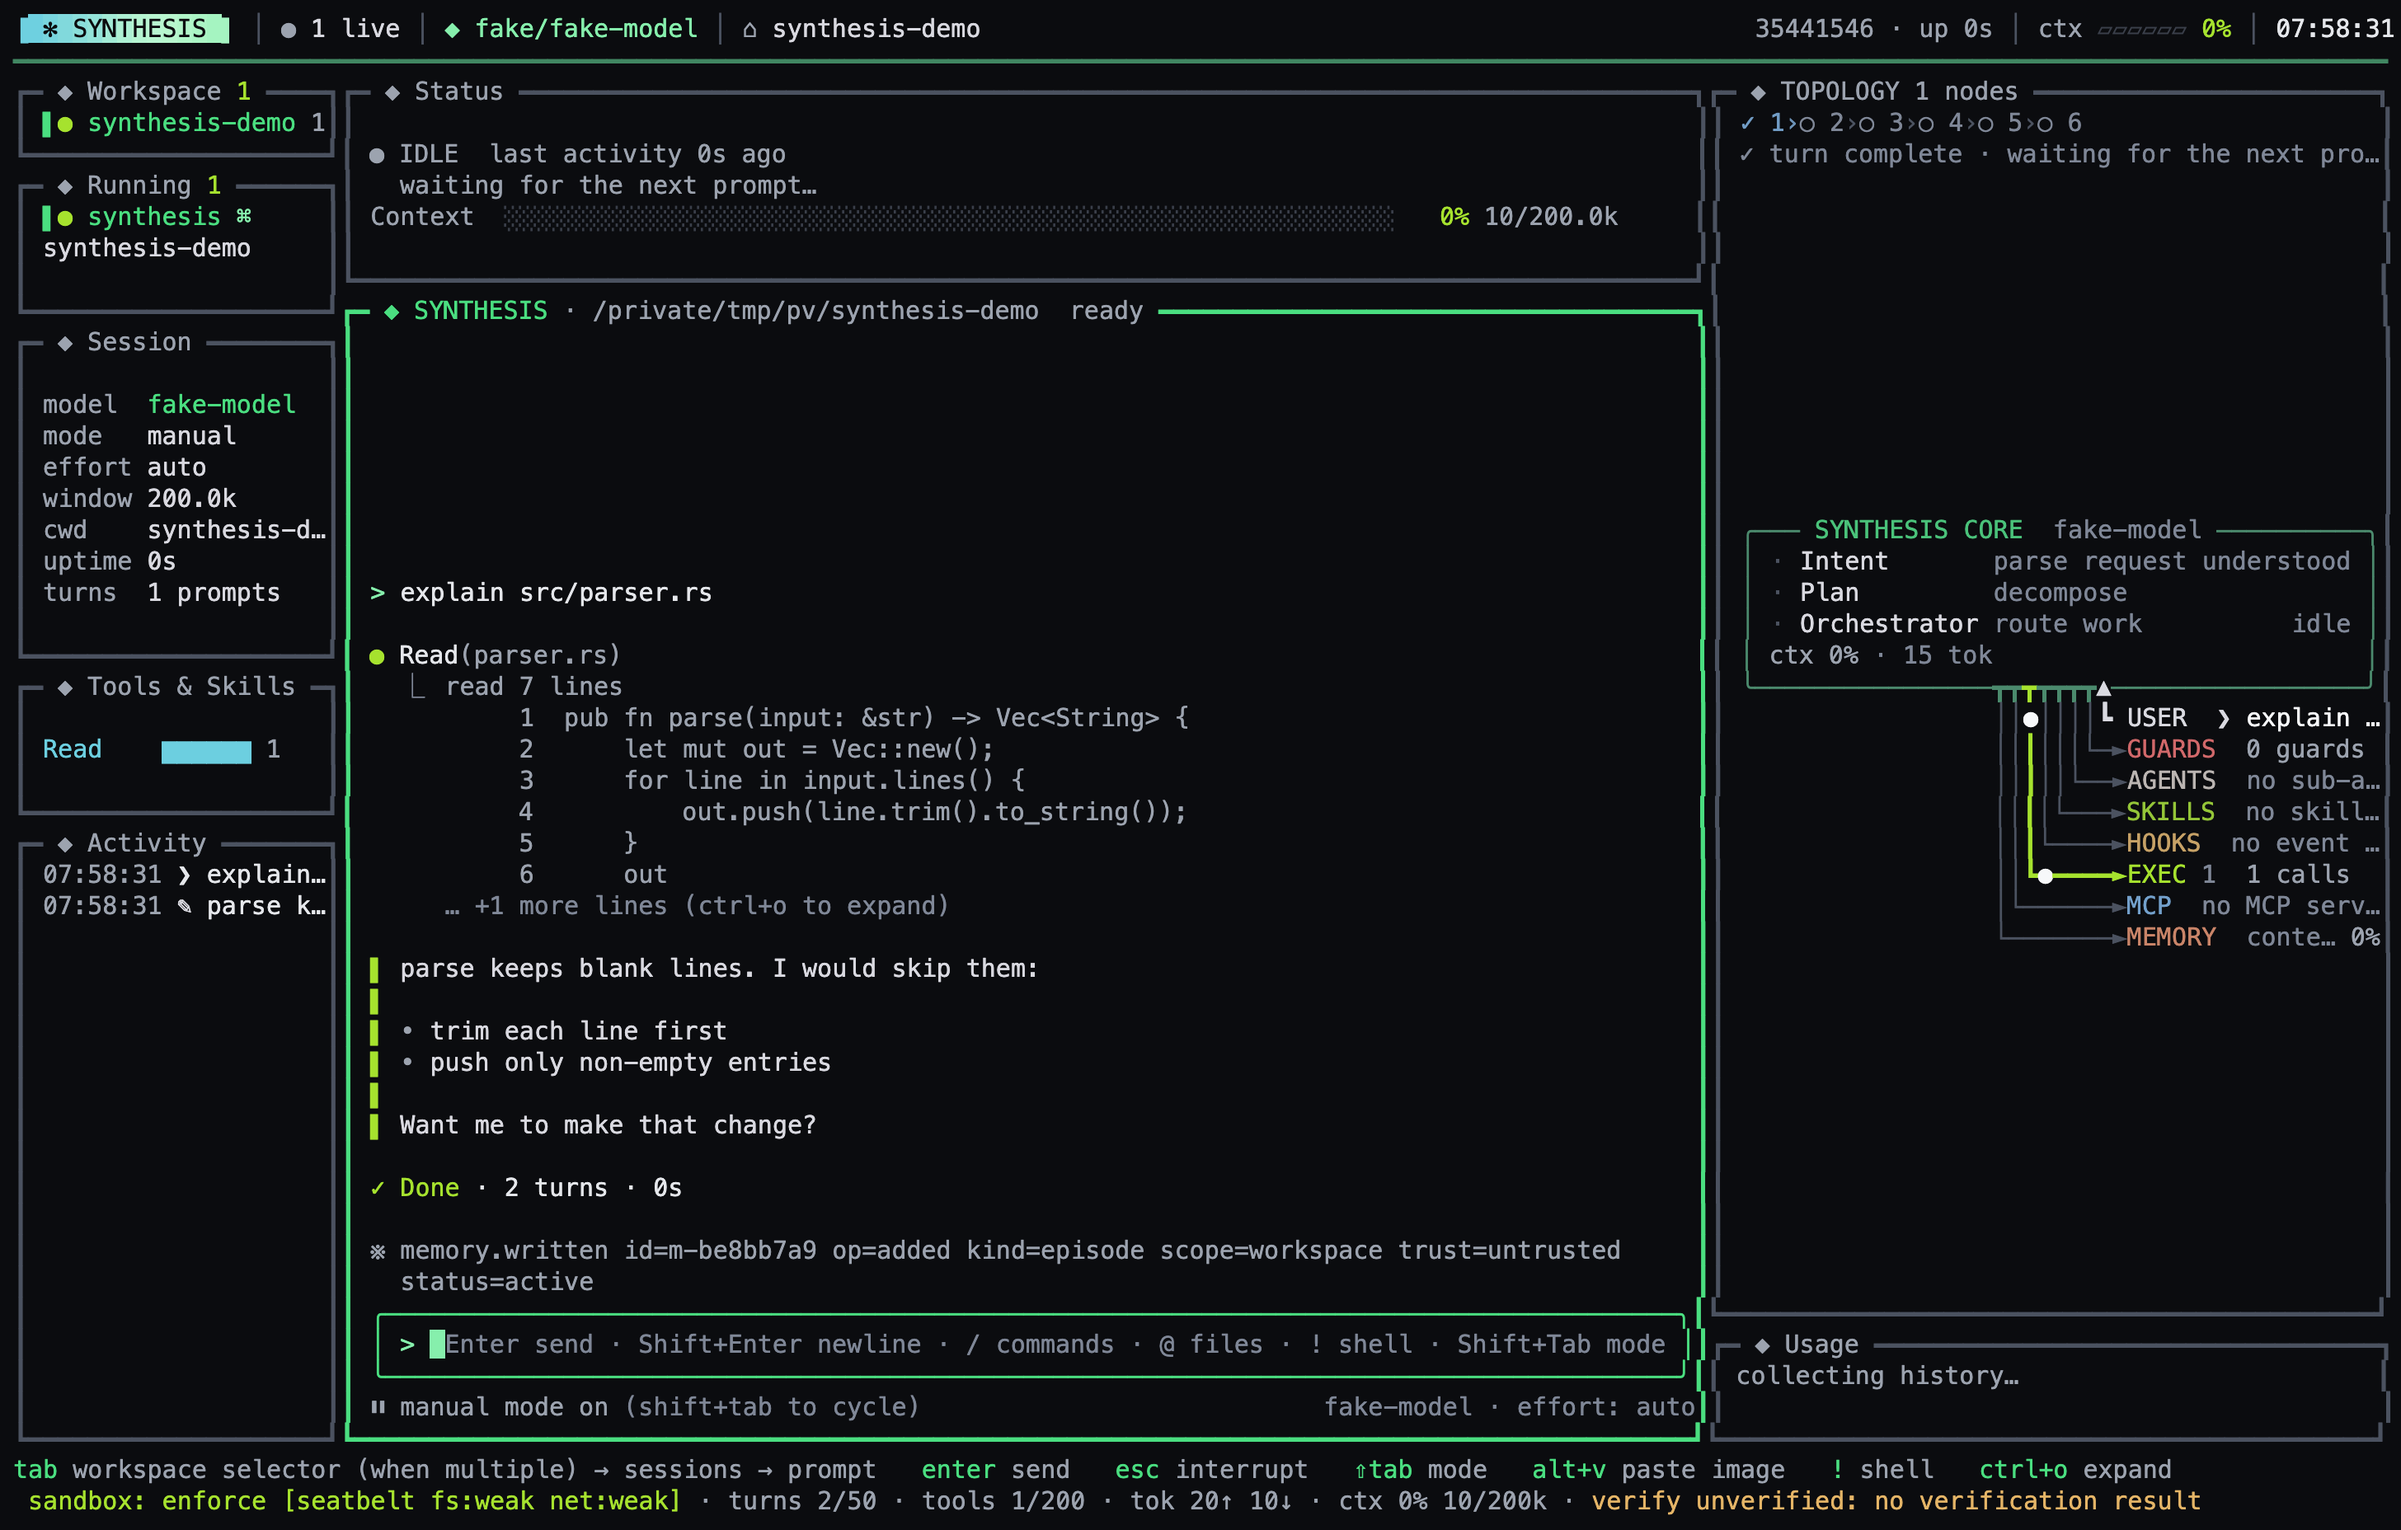
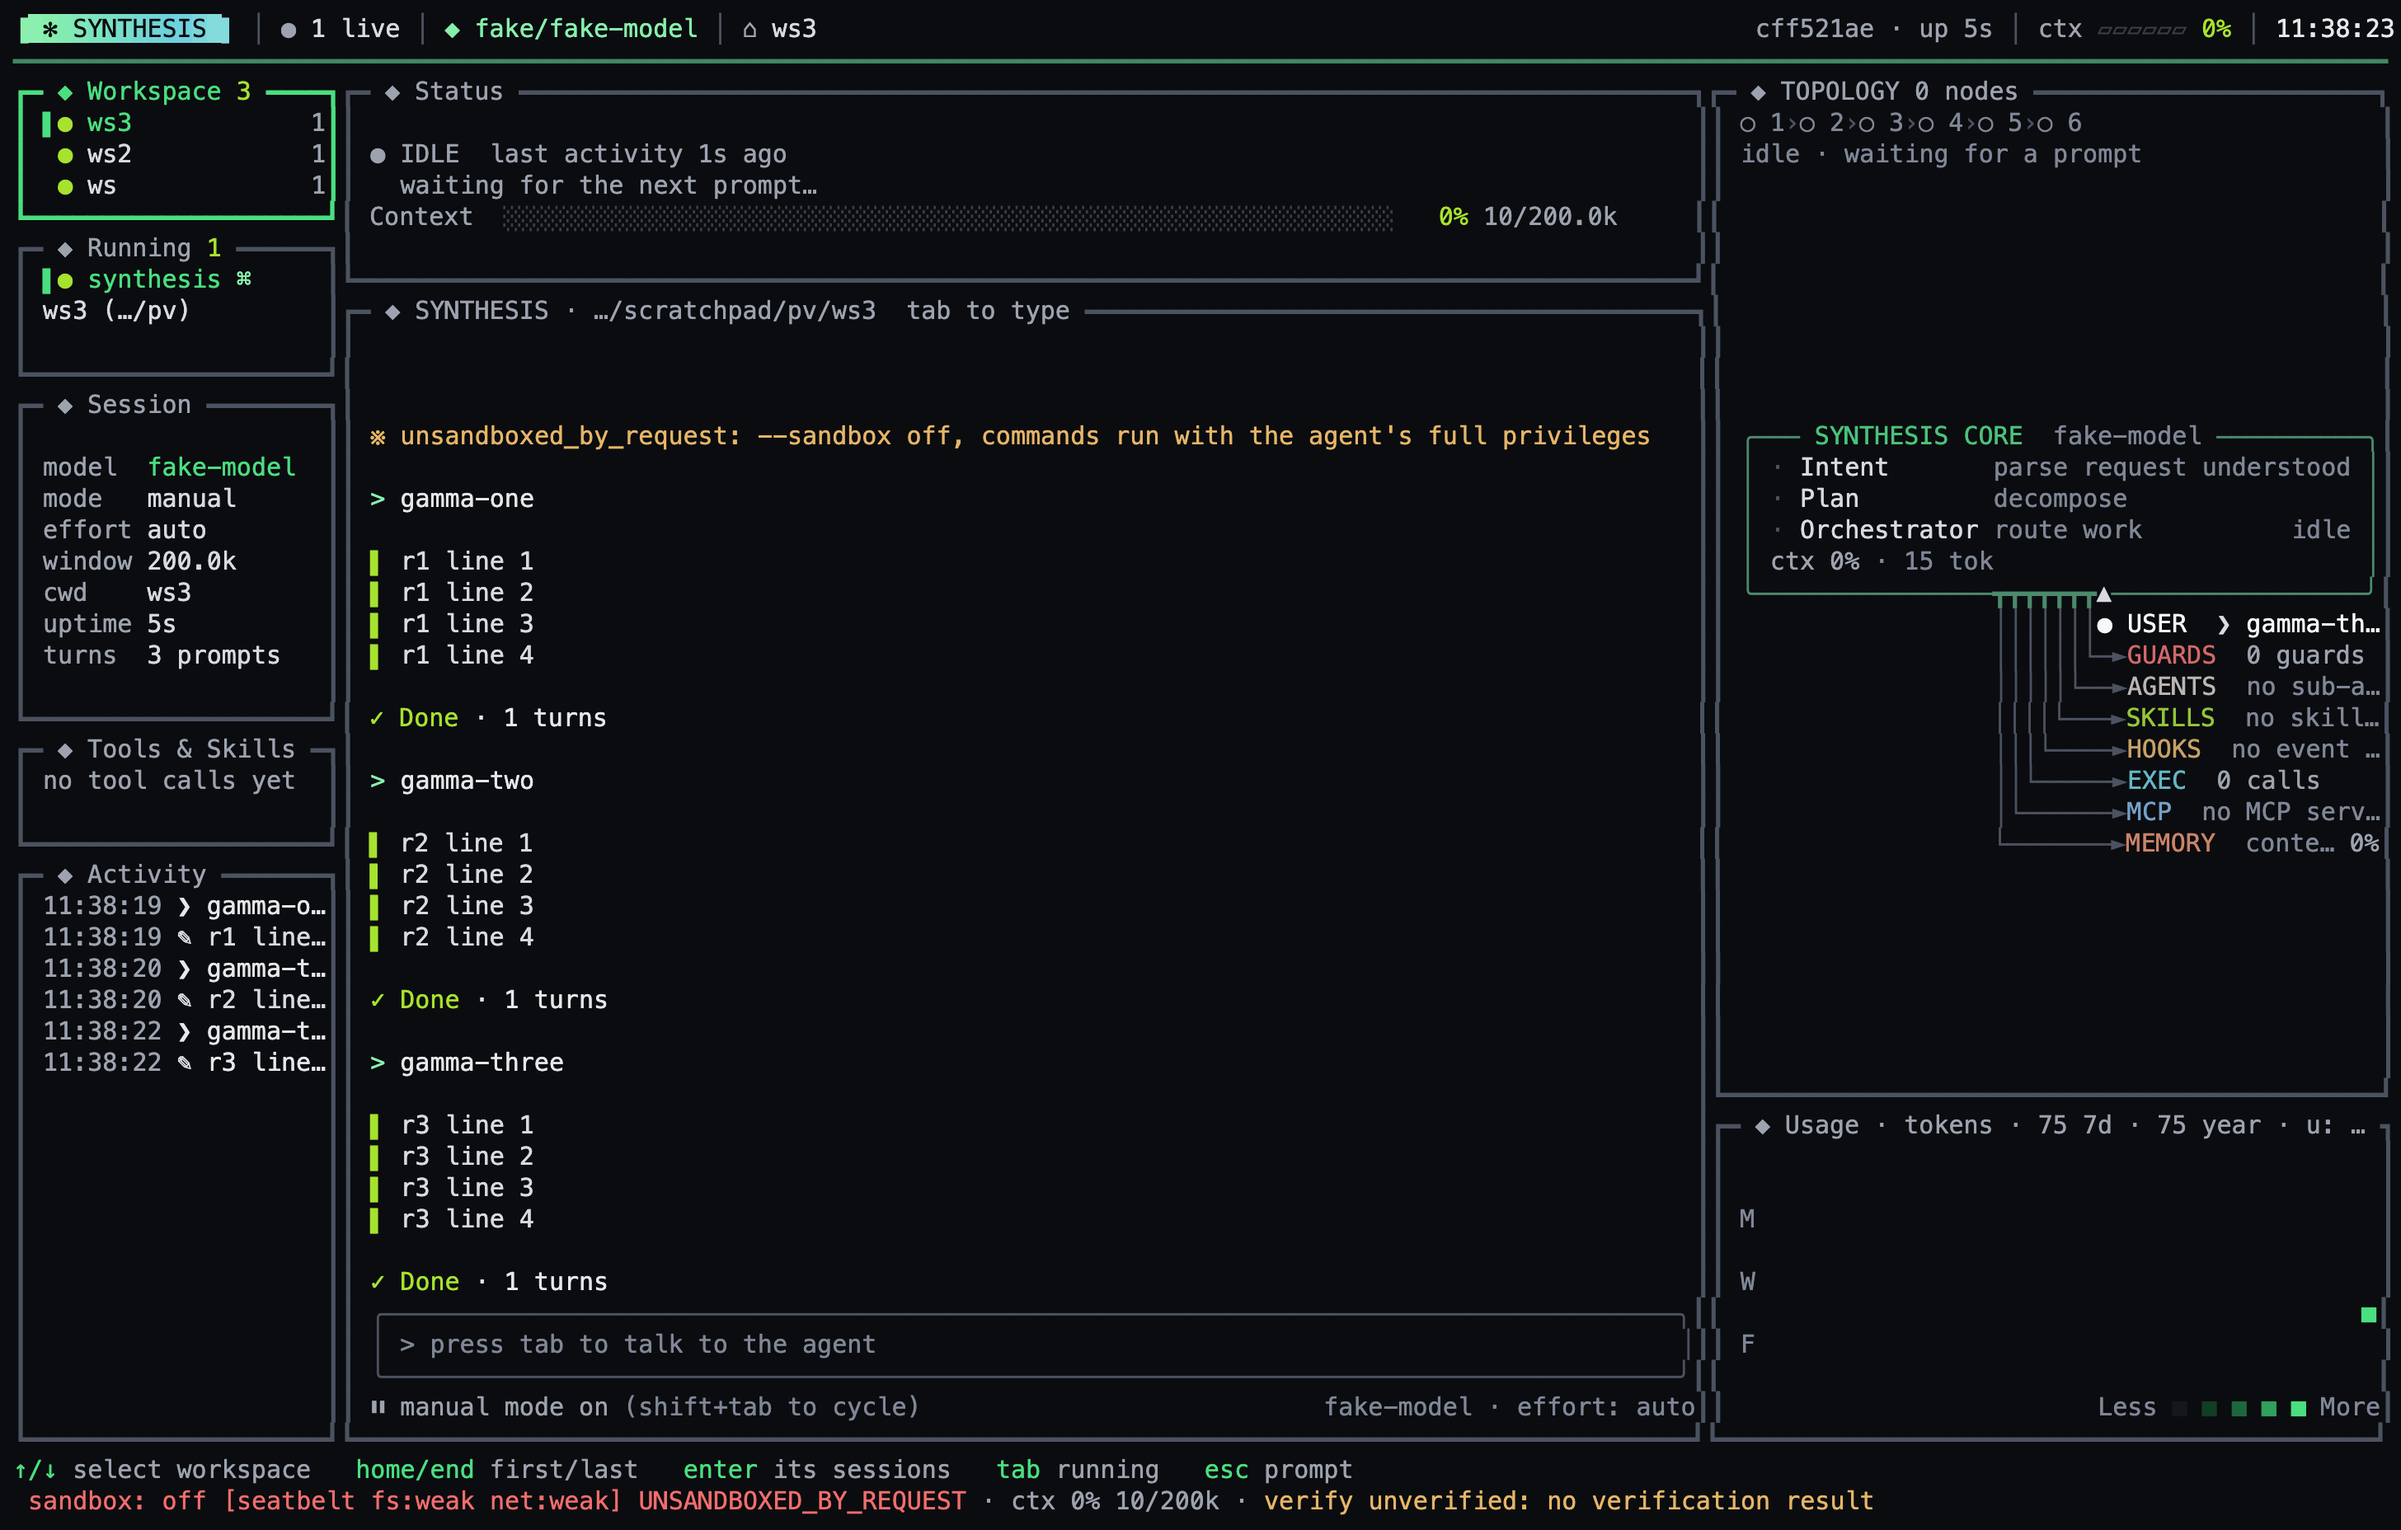
docs: workspace/running/activity panels, focus, mouse, new keys; refresh dash preview

diff --git a/docs/TUI.md b/docs/TUI.md
@@ -24,7 +24,7 @@ cut for `synt run --resume` consumers.
 | /help | keys and commands, plus the skills and MCP prompts of this session |
 | /clear | new conversation in the same session |
 | /compact [instructions] | summarise the conversation (`Harness::request_compact` / compact now) |
-| /new | pick a folder; a fresh session starts there. Type a path (`/abs`, `~/x`, `./rel`, `a/b`) to get an `open <path>` row, or the reason it cannot be a folder (`no such folder`, `not a folder`, `permission denied`). Symlinked folders are listed with `(link)`. A folder that cannot be opened is a notice; the current session stays. Choosing a folder while a task runs cancels the task and says so |
+| /new | a fresh session in the SELECTED workspace (the one highlighted in the Workspace panel; no picker). When that is not the live workspace the app switches to it. A running task needs a second `/new` within 5 s (it cancels the task and says so). For a different folder use Ctrl+N |
 | /resume [id] | continue a saved session (picker: this folder first); an unknown id is a notice, the app stays |
 | /model [name] | pick or set a model; restarts on the same session |
 | /effort [auto\|low\|...] | reasoning effort, only when the model declares `effort_tiers` |
@@ -84,9 +84,40 @@ input is dropped and it is retried (up to 5 times); if that fails the message sa
 ## Context meter
 The status line shows `ctx 62% 124k/200k`; the Context panel, the header chip and the topology cards use the same number. The window is the one the harness resolved for the model in use (docs/specs/config.md §6.2), so `/model` shows the new model's window from its first response. When the window is unknown the status line shows `ctx 124k/?` and the panels show `?` instead of a percentage; nothing is guessed from the model name. Set `limit.context` for such a model.
 
+## Workspaces, sessions and the sidebar
+
+The sidebar has three controls. **Workspace** lists the folders that have sessions in the store (the
+live one first, then by newest session) with the session count. **Running** lists the sessions of the
+SELECTED workspace: the live one (`●`, marked `⌘`) and the stored ones (`○`, named by their first
+prompt), newest first. Selecting a workspace only changes that list; nothing restarts. Opening a
+stored session is `/resume` (the app restarts on it, in its own folder; a running task is cancelled
+after a second Enter / click within 5 s). **Activity** is the feed of the live session; a `❯` row is
+a prompt.
+
+| input | does |
+|---|---|
+| Tab (empty prompt, no dialog) | chat -> Workspace -> Running -> chat. The focused panel's border takes the accent colour and the footer shows its keys. Skipped when the sidebar is not on screen (terminal under 80 columns) |
+| Up/Down, PageUp/PageDown, Home/End | in a focused panel: move the selection (the panel scrolls to keep it visible) |
+| Enter | Workspace: its sessions get the keys. Running: open the selected session |
+| Esc, typing, Ctrl+C ... | back to the chat (a typed character is inserted) |
+| click a workspace row | select it; Running lists its sessions |
+| click a session row | open it (the live session: nothing happens) |
+| click a `❯` row in Activity | scrolls the chat so that prompt is the first row of the view |
+| wheel over Workspace / Running | moves the selection one row per notch (the panel scrolls with it) |
+| wheel over Activity | scrolls it (3 rows per notch, clamped); its title shows `↑n` older / `↓n` newer rows out of view |
+| wheel over the chat | scrolls the chat; over anything else nothing happens |
+| Ctrl+N | NEW WORKSPACE: the folder picker; the chosen folder gets a fresh session |
+| /new | new session in the selected workspace |
+| Ctrl+T (empty prompt, sub-agents exist) | cycles where the prompt goes: main, then each sub-agent (this was Tab before) |
+| Shift+Tab | cycles the permission mode (unchanged) |
+
+Workspaces are told apart by folder (symlinks resolved; case folded on macOS and Windows). The Activity
+panel is only drawn when the terminal is tall enough (about 160x48); `↑n more` / `↓n more` in
+Workspace and Running are clickable steps.
+
 ## Keys in dialogs
 
-A picker (`/new`, `/resume`, `/model`, `/config`, ...) closes with Esc; an approval dialog is answered with Enter / 1-3, and Esc or Ctrl+C rejects it. Ctrl+D does nothing inside a dialog (on the prompt it quits when the prompt is empty); close the dialog first. `/help` is not a dialog: it prints its text into the conversation like any other output, so Esc does not dismiss it (it scrolls away with the chat).
+A picker (Ctrl+N, `/resume`, `/model`, `/config`, ...) closes with Esc; an approval dialog is answered with Enter / 1-3, and Esc or Ctrl+C rejects it. Ctrl+D does nothing inside a dialog (on the prompt it quits when the prompt is empty); close the dialog first. `/help` is not a dialog: it prints its text into the conversation like any other output, so Esc does not dismiss it (it scrolls away with the chat).
 
 ## Settings (`synt.tui`, user settings.json only)
 
